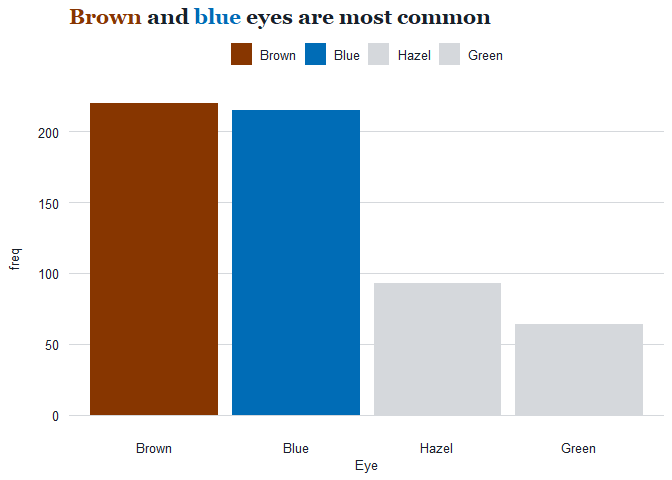
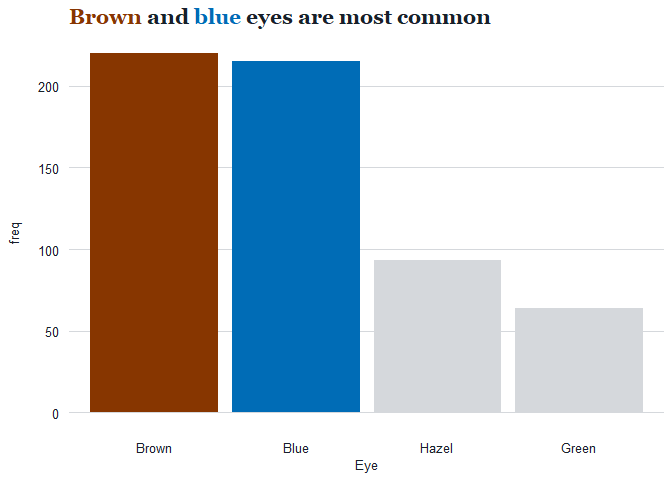
removing legend from readme gg_color_title

diff --git a/README.md b/README.md
@@ -112,7 +112,7 @@ HairEyeColor %>%
   geom_bar(position = "dodge",
            stat = "identity") +
   labs(title = title) +
-  theme_gg_smc() +
+  theme_gg_smc(legend_loc = "none") +
   ggplot2::theme(plot.title = ggtext::element_markdown(size = 16, hjust = 0, face = "bold"))
 ```
 
